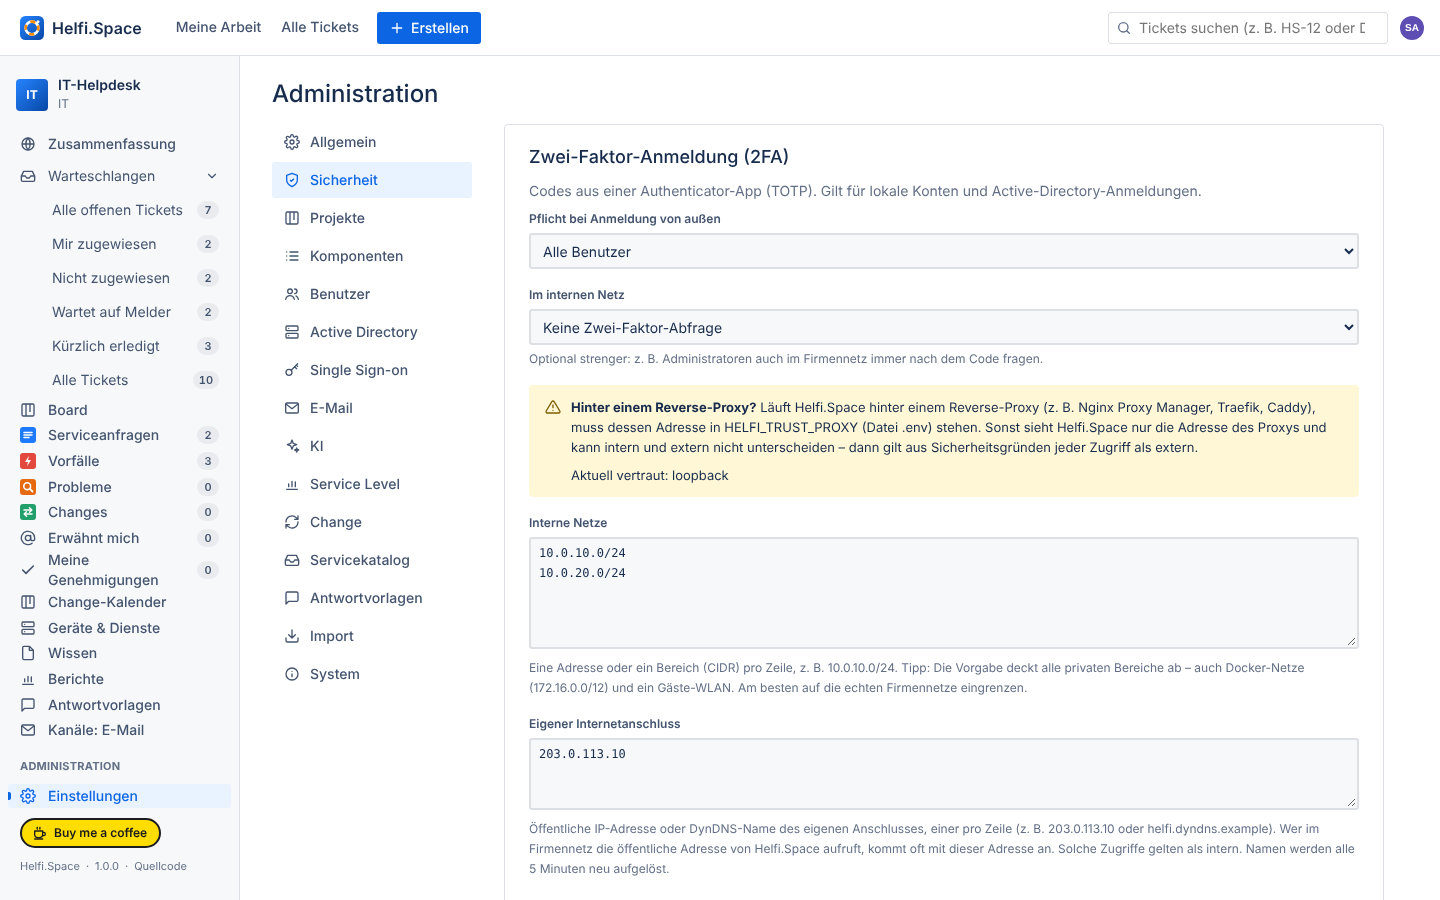
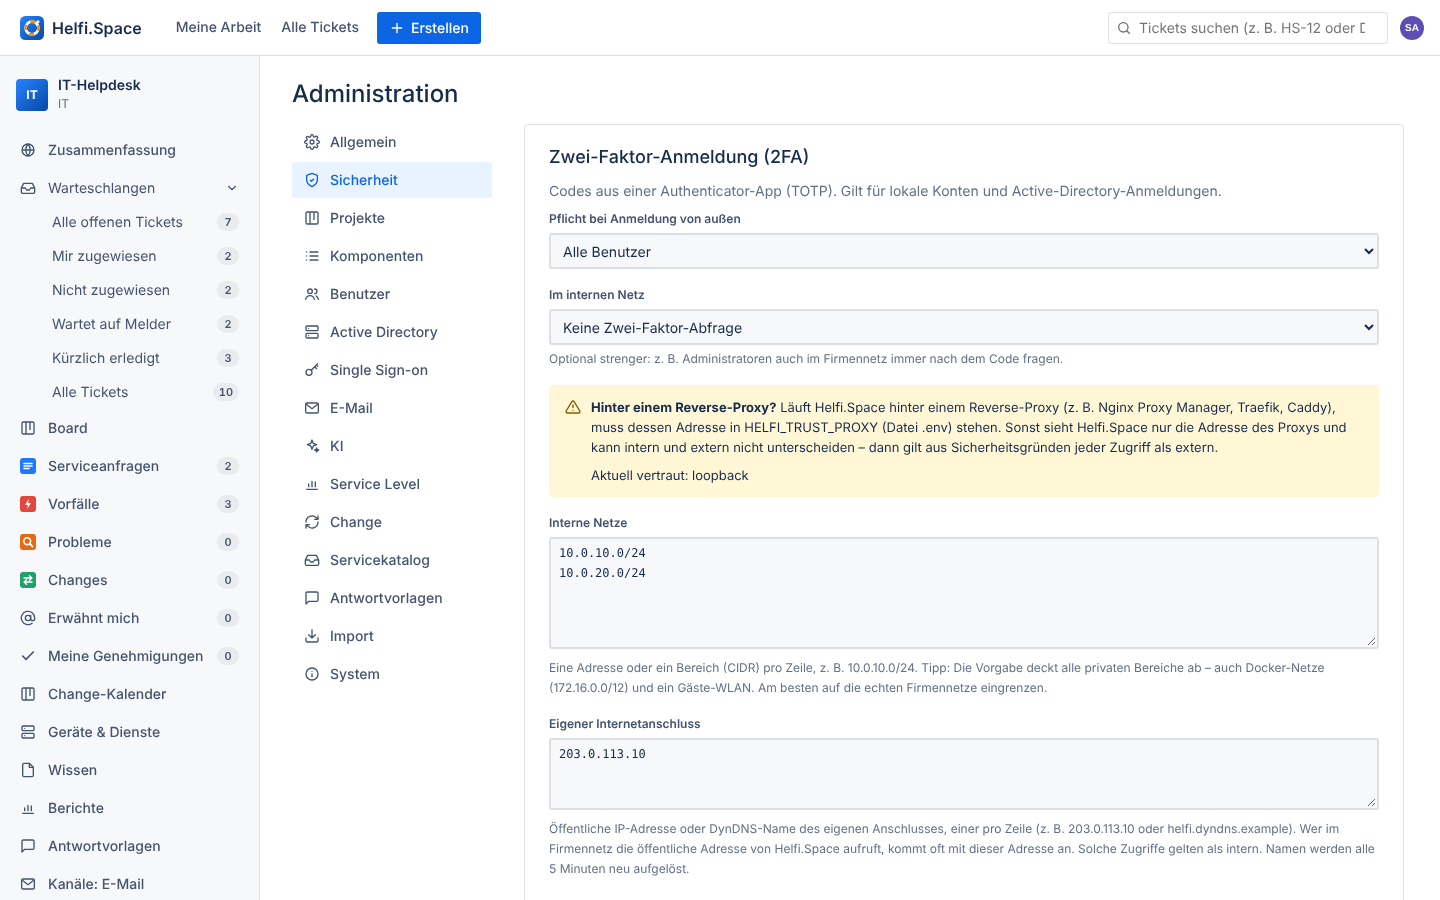
Even sidebar spacing: entries no longer squeezed when the sidebar is full
The sidebar is a fixed-height flex column; once it overflowed, entries shrank
from 36 px to about 20 px. Children no longer shrink (the sidebar scrolls),
labels stay on one line with the full text as tooltip, and the sidebar is
260 px wide so "Meine Genehmigungen" fits. README screenshots refreshed.

Claude-Session: https://claude.ai/code/session_01KwiqNhVNpy7NjchrmoMHbT

diff --git a/test/sidebar-spacing-ui.test.js b/test/sidebar-spacing-ui.test.js
@@ -1,0 +1,57 @@
+// Sidebar: entries keep their height when the sidebar is full (it scrolls instead of squeezing),
+// long labels stay on one line with the full text as tooltip. Needs Playwright with Chromium – skipped if missing.
+import { test, before, after } from 'node:test';
+import assert from 'node:assert/strict';
+import { createRequire } from 'node:module';
+import { startServer } from './helpers/server.js';
+
+let chromium = null;
+try { ({ chromium } = createRequire(import.meta.url)('playwright')); } catch { /* not installed */ }
+if (!chromium && process.env.NODE_PATH) {
+  try { ({ chromium } = createRequire(`${process.env.NODE_PATH}/`)('playwright')); } catch { /* not there either */ }
+}
+const skip = !chromium && 'Playwright missing';
+if (!chromium && process.env.HELFI_REQUIRE_BROWSER) throw new Error('Playwright with Chromium is required (HELFI_REQUIRE_BROWSER is set)');
+
+let S; let browser;
+before(async () => {
+  if (!chromium) return;
+  S = await startServer('sidebarui');
+  await S.admin('POST', '/api/filters', { name: 'Ohne Komponente im Projekt IT mit langem Namen', query: { component: 'none' }, shared: false });
+  browser = await chromium.launch();
+});
+after(async () => { await browser?.close(); await S?.stop(); });
+
+test('Full sidebar: same height for every entry, one line each, scrolls', { skip }, async () => {
+  const c = await browser.newContext({ viewport: { width: 1280, height: 640 }, extraHTTPHeaders: { 'X-Helfi-Request': '1' } });
+  const p = await c.newPage();
+  const errors = [];
+  p.on('pageerror', (e) => errors.push(e.message));
+  await p.request.post(`${S.base}/api/auth/login`, { data: { username: 'admin', password: 'Sehrgeheim123' } });
+  await p.request.patch(`${S.base}/api/me`, { data: { language: 'de' } });
+  await p.goto(`${S.base}/summary`);
+  await p.locator('.sidebar .saved-filter').waitFor();
+  const m = await p.evaluate(() => {
+    const sb = document.querySelector('.sidebar');
+    const items = [...sb.querySelectorAll('.nav-item:not(.nav-sub)')].filter((e) => e.offsetParent);
+    const subs = [...sb.querySelectorAll('.nav-item.nav-sub')].filter((e) => e.offsetParent);
+    const labels = [...sb.querySelectorAll('.nav-item > span:not(.nav-count)')].filter((e) => e.offsetParent);
+    return {
+      main: [...new Set(items.map((e) => Math.round(e.getBoundingClientRect().height)))],
+      sub: [...new Set(subs.map((e) => Math.round(e.getBoundingClientRect().height)))],
+      multiLine: labels.filter((e) => e.getBoundingClientRect().height > 24).map((e) => e.textContent),
+      noTitle: labels.filter((e) => !e.title && !e.closest('.saved-filter')).map((e) => e.textContent),
+      scrolls: sb.scrollHeight > sb.clientHeight,
+    };
+  });
+  assert.ok(m.scrolls, 'small window: the sidebar scrolls');
+  assert.deepEqual(m.main, [36], 'every main entry 36 px, nothing squeezed');
+  assert.deepEqual(m.sub, [32], 'queue entries 32 px');
+  assert.deepEqual(m.multiLine, [], 'no label wraps');
+  assert.deepEqual(m.noTitle, [], 'full text as tooltip');
+  // "Meine Genehmigungen" fits completely
+  const cut = await p.getByRole('link', { name: /Meine Genehmigungen/ }).locator('span').first().evaluate((e) => e.scrollWidth > e.clientWidth);
+  assert.equal(cut, false);
+  assert.deepEqual(errors, []);
+  await c.close();
+});

diff --git a/public/js/app.js b/public/js/app.js
@@ -212,24 +212,24 @@ export async function route() {
 function layout(content, path) {
   const u = state.user;
   const p = state.project;
-  const nav = (href, label, ic, active) => h('a.nav-item', { href, 'data-link': '', class: active ? 'active' : '' }, icon(ic), h('span', label));
+  const nav = (href, label, ic, active) => h('a.nav-item', { href, 'data-link': '', class: active ? 'active' : '' }, icon(ic), h('span', { title: label }, label));
   const activeQueue = path === '/issues' ? matchQueue(new URL(location.href).searchParams) : null;
   // Count on an entry – filled after loading /api/queues (until then the last known value)
   const countEl = (field) => h('span.nav-count', { 'data-count': field }, state.queueCounts?.[field] ?? '');
-  const countedNav = (href, label, ic, active, field) => h('a.nav-item', { href, 'data-link': '', class: active ? 'active' : '' }, icon(ic), h('span', label), countEl(field));
+  const countedNav = (href, label, ic, active, field) => h('a.nav-item', { href, 'data-link': '', class: active ? 'active' : '' }, icon(ic), h('span', { title: label }, label), countEl(field));
   function queuesNav(curPath, proj) {
     let open = true;
     try { open = localStorage.getItem('helfi.queuesOpen') !== '0'; } catch { /* ignore */ }
     const list = h('div.queue-list', { hidden: !open }, QUEUES.map((q) => h('a.nav-item.nav-sub', {
       href: queueHref(q, proj?.key), 'data-link': '', class: curPath === '/issues' && activeQueue?.id === q.id ? 'active' : '',
-    }, h('span', t(q.label)), countEl(q.count))));
+    }, h('span', { title: t(q.label) }, t(q.label)), countEl(q.count))));
     const head = h('button.nav-item.nav-group', {
       type: 'button', 'aria-expanded': String(open),
       onclick: () => {
         open = !open; list.hidden = !open; head.setAttribute('aria-expanded', String(open)); head.classList.toggle('collapsed', !open);
         try { localStorage.setItem('helfi.queuesOpen', open ? '1' : '0'); } catch { /* ignore */ }
       },
-    }, icon('inbox'), h('span', t('nav.queues')), icon('chevron-down', 'nav-chevron'));
+    }, icon('inbox'), h('span', { title: t('nav.queues') }, t('nav.queues')), icon('chevron-down', 'nav-chevron'));
     head.classList.toggle('collapsed', !open);
     return h('div.queue-group', head, list);
   }

diff --git a/public/css/app.css b/public/css/app.css
@@ -49,7 +49,7 @@
   --shadow-overlay: 0 8px 12px #091E4226, 0 0 1px #091E424F;
   --radius: 3px;
   --topbar-h: 56px;
-  --sidebar-w: 240px;
+  --sidebar-w: 260px;
   --font: -apple-system, BlinkMacSystemFont, "Segoe UI", Roboto, "Noto Sans", Ubuntu, "Helvetica Neue", sans-serif, "Apple Color Emoji", "Segoe UI Emoji", "Noto Color Emoji";
   --mono: ui-monospace, SFMono-Regular, "SF Mono", Menlo, Consolas, monospace;
 }
@@ -166,6 +166,8 @@ select { height: 36px; padding: 0 8px; }
   width: var(--sidebar-w); flex: none; background: var(--bg-sunken); border-right: 1px solid var(--border);
   padding: 16px 8px; display: flex; flex-direction: column; gap: 2px; overflow-y: auto;
 }
+/* Entries keep their height; a full sidebar scrolls instead of squeezing them together */
+.sidebar > * { flex-shrink: 0; }
 .sidebar-project { display: flex; align-items: center; gap: 10px; padding: 4px 8px 16px; }
 .project-avatar {
   width: 32px; height: 32px; border-radius: 4px; background: linear-gradient(135deg, #2684FF, #0747A6); color: #fff;
@@ -179,6 +181,8 @@ select { height: 36px; padding: 0 8px; }
 .nav-item { display: flex; align-items: center; gap: 12px; height: 36px; padding: 0 12px; border-radius: var(--radius); color: var(--text-subtle); font-weight: 500; position: relative; }
 .nav-item:hover { background: var(--bg-neutral); color: var(--text); text-decoration: none; }
 .nav-item.active { background: var(--blue-subtle); color: var(--blue); }
+/* Long labels stay on one line (full text as tooltip) */
+.nav-item > span:not(.nav-count) { flex: 1 1 auto; min-width: 0; overflow: hidden; text-overflow: ellipsis; white-space: nowrap; }
 .nav-item.active::before { content: ""; position: absolute; left: 0; top: 8px; bottom: 8px; width: 3px; border-radius: 0 2px 2px 0; background: var(--blue); }
 .sidebar-foot { margin-top: auto; font-size: 11px; color: var(--text-subtlest); padding: 8px 12px; display: flex; flex-direction: column; align-items: flex-start; gap: 8px; }
 .sidebar-meta { display: flex; align-items: center; gap: 6px; white-space: nowrap; }

diff --git a/public/js/savedfilters.js b/public/js/savedfilters.js
@@ -22,7 +22,7 @@ function draw(host) {
       h('button.btn-icon.small', { type: 'button', title: t('filters.manage'), 'aria-label': t('filters.manage'), onclick: () => openManageFilters() }, icon('sliders'))),
     ...list.map((f) => h('a.nav-item.nav-sub.saved-filter', {
       href: href(f), 'data-link': '', class: active?.id === f.id ? 'active' : '', title: f.shared ? t('filters.sharedHint') : f.name,
-    }, f.shared ? icon('users', 'saved-shared') : null, h('span.saved-name', f.name), h('span.nav-count', f.count === null || f.count === undefined ? '' : String(f.count)))));
+    }, f.shared ? icon('users', 'saved-shared') : null, h('span.saved-name', { title: f.name }, f.name), h('span.nav-count', f.count === null || f.count === undefined ? '' : String(f.count)))));
 }
 
 /** Sidebar group (agents); filled from state.savedFilters and updated by refreshSavedFilters() */
